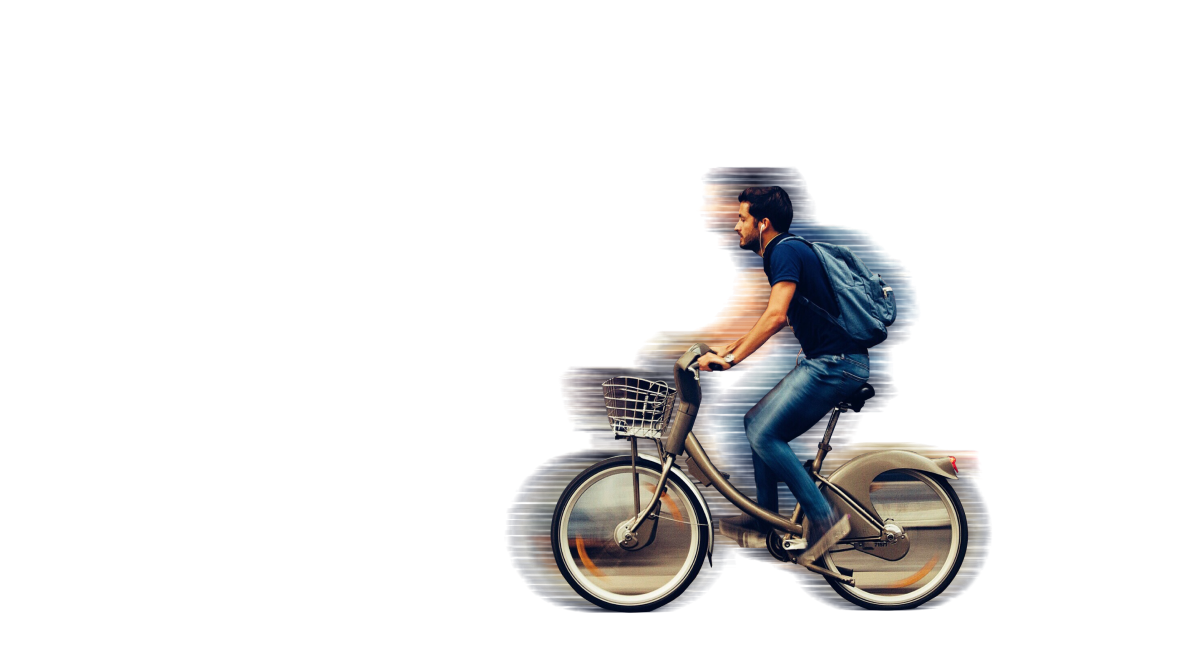
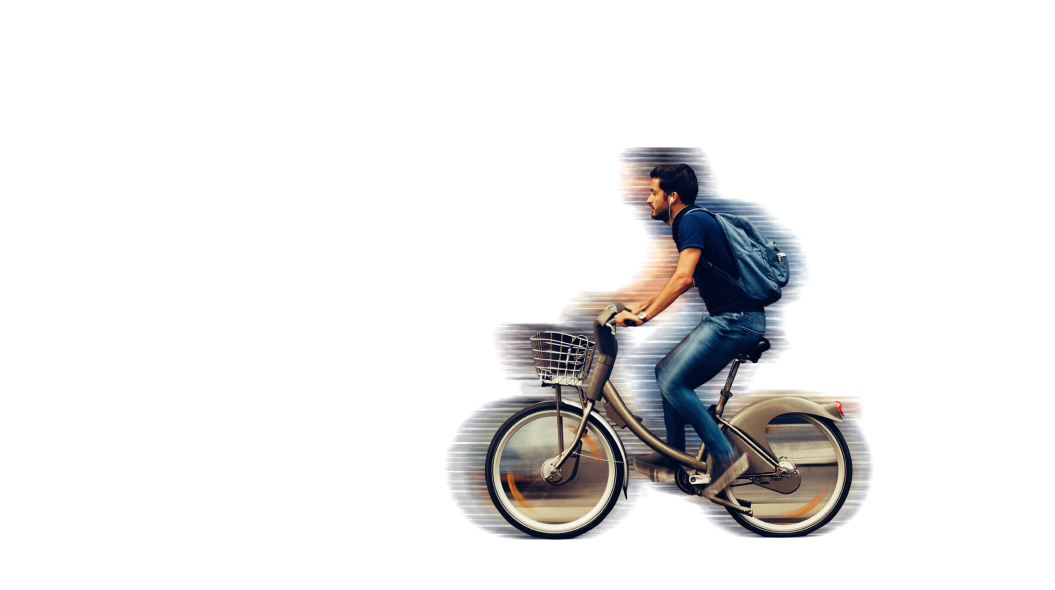
image fix

diff --git a/src/pages/tools.jsx b/src/pages/tools.jsx
@@ -84,7 +84,7 @@ function Tools() {
             style={{
               position: "absolute",
               zIndex: "2",
-              left: "394px",
+              right:"0px",
               top: "180px",
             }}
             width={1197}
@@ -109,7 +109,7 @@ function Tools() {
       <Row
         style={{
           backgroundColor: "#f6f6f6",
-          alignItems: "center",
+          alignItems: "center"
         }}
       >
         <Headline2 style={{ marginBottom: "20px" }}>Network</Headline2>
